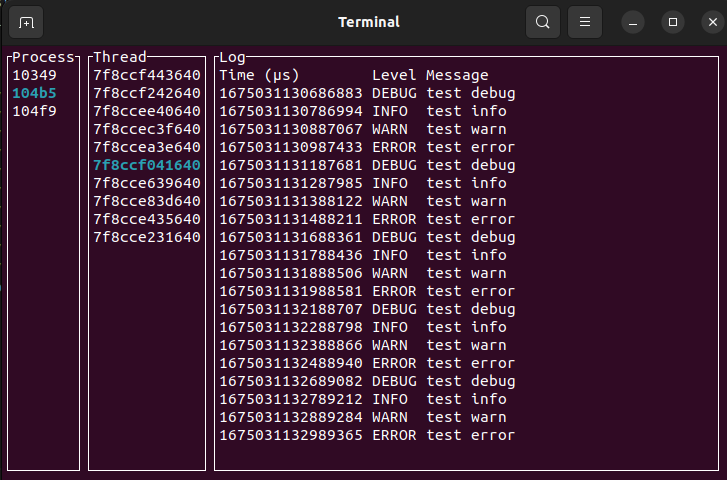
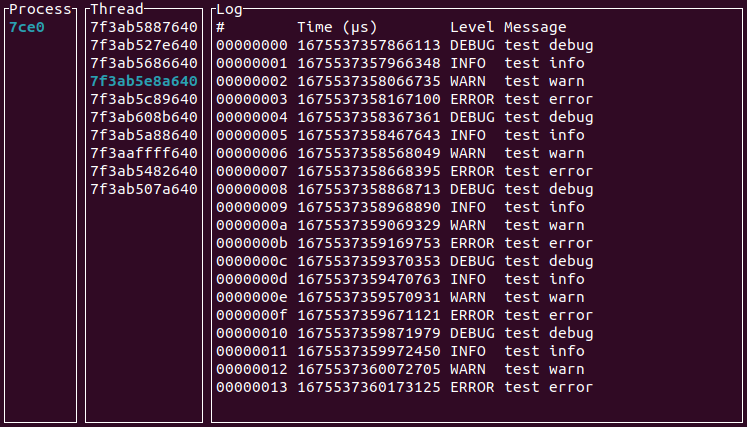
feat: Line numbers and better scrolling
Introduced log lines numbers and additional scrolling controls.

Changed region(s): [[0.0, 0.0, 0.9986, 1.0]]

diff --git a/logger-server/src/main.rs b/logger-server/src/main.rs
@@ -148,18 +148,17 @@ impl App {
         }
     }
 
-    pub fn next_log(&mut self) {
+    pub fn next_log(&mut self, n: usize) {
         if let (Some(process), Some(thread)) = (self.process.selected(), self.thread.selected()) {
-            if self.log < self.processes[process].threads[thread].log.len() {
-                self.log += 1;
-            }
+            self.log = std::cmp::min(
+                self.log + n,
+                self.processes[process].threads[thread].log.len() - 1,
+            );
         }
     }
 
-    pub fn previous_log(&mut self) {
-        if self.log > 0 {
-            self.log -= 1;
-        }
+    pub fn previous_log(&mut self, n: usize) {
+        self.log = self.log.checked_sub(n).unwrap_or(0);
     }
 }
 
@@ -224,8 +223,21 @@ fn run_app<B: Backend>(
                 KeyCode::Char('s') => app.write().unwrap().next_process(),
                 KeyCode::Char('e') => app.write().unwrap().previous_thread(),
                 KeyCode::Char('d') => app.write().unwrap().next_thread(),
-                KeyCode::Char('r') => app.write().unwrap().previous_log(),
-                KeyCode::Char('f') => app.write().unwrap().next_log(),
+                KeyCode::Char('r') => app.write().unwrap().previous_log(1),
+                KeyCode::Char('f') => app.write().unwrap().next_log(1),
+                KeyCode::Char('t') => app.write().unwrap().previous_log(2),
+                KeyCode::Char('g') => app.write().unwrap().next_log(2),
+                KeyCode::Char('y') => app.write().unwrap().previous_log(4),
+                KeyCode::Char('h') => app.write().unwrap().next_log(4),
+                KeyCode::Char('u') => app.write().unwrap().log = 0,
+                KeyCode::Char('j') => {
+                    let mut guard = app.write().unwrap();
+                    if let (Some(process), Some(thread)) =
+                        (guard.process.selected(), guard.thread.selected())
+                    {
+                        guard.log = guard.processes[process].threads[thread].log.len() - 1;
+                    }
+                }
                 _ => {}
             }
         }
@@ -302,14 +314,19 @@ fn ui<B: Backend>(f: &mut Frame<B>, app: Arc<RwLock<App>>) {
             let x = app.processes[process].threads[thread]
                 .log
                 .iter()
+                .enumerate()
                 .skip(app.log)
                 .map(
-                    |Log {
-                         time,
-                         message,
-                         level,
-                     }| {
+                    |(
+                        i,
+                        Log {
+                            time,
+                            message,
+                            level,
+                        },
+                    )| {
                         Row::new(vec![
+                            format!("{i:08x}"),
                             time.as_micros().to_string(),
                             level.to_string(),
                             message.clone(),
@@ -322,8 +339,9 @@ fn ui<B: Backend>(f: &mut Frame<B>, app: Arc<RwLock<App>>) {
         _ => Table::new(Vec::new()),
     }
     .block(Block::default().title("Log").borders(Borders::ALL))
-    .header(Row::new(vec!["Time (μs)", "Level", "Message"]))
+    .header(Row::new(vec!["#", "Time (μs)", "Level", "Message"]))
     .widths(&[
+        Constraint::Length(8),
         Constraint::Length(16),
         Constraint::Length(5),
         Constraint::Percentage(100),

diff --git a/README.md b/README.md
@@ -64,13 +64,22 @@ This will spawn the server process if the socket is not found, otherwise it will
 
 ### Server control
 
+
+
 - `q` Exit
 - `w` Up process
 - `s` Down process
 - `e` Up thread
 - `d` Down thread
-- `r` Up log
-- `f` Down log
+
+#### Log scrolling
+
+Speed|Up|Down
+---|---|---
+1x|`r`|`f`
+2x|`t`|`g`
+4x|`y`|`h`
+End|`u`|`j`
 
 ### FAQ
 
